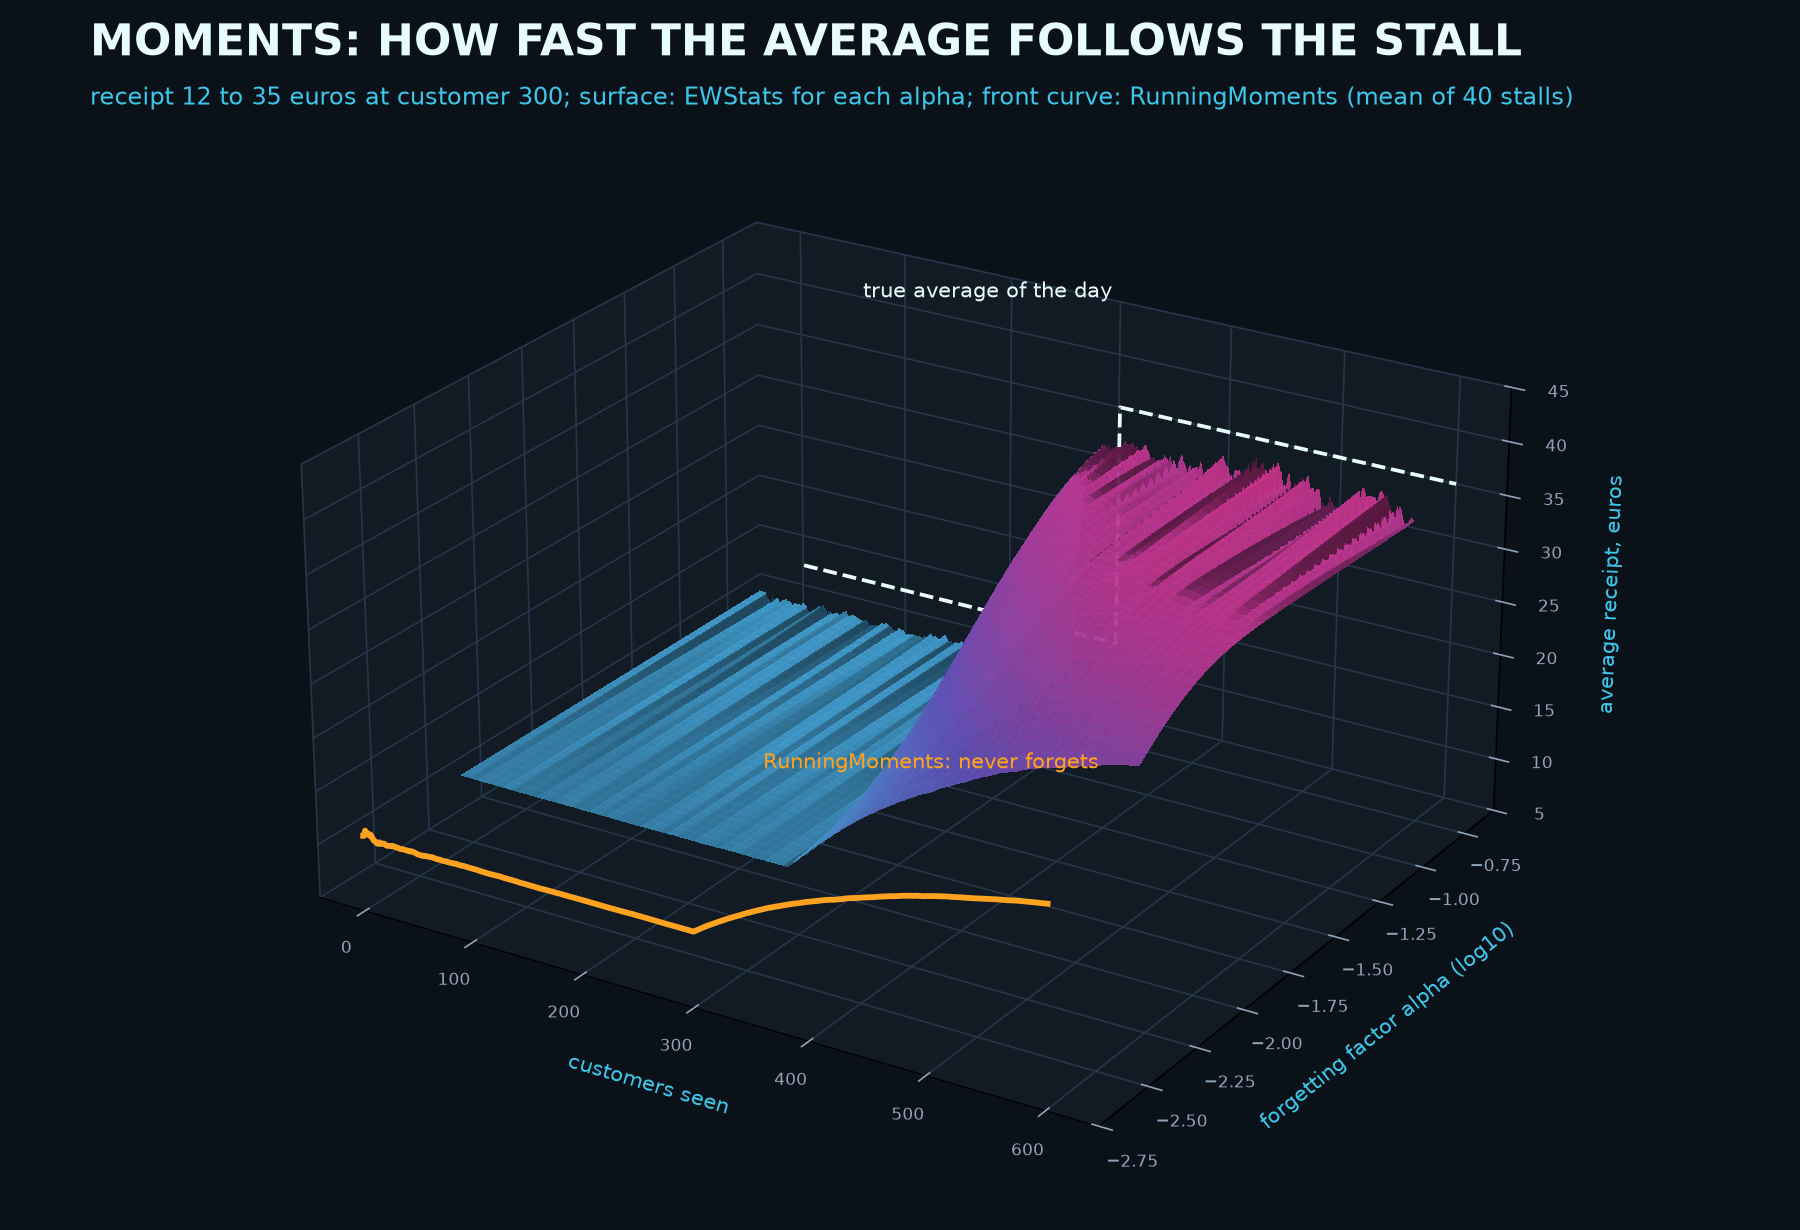
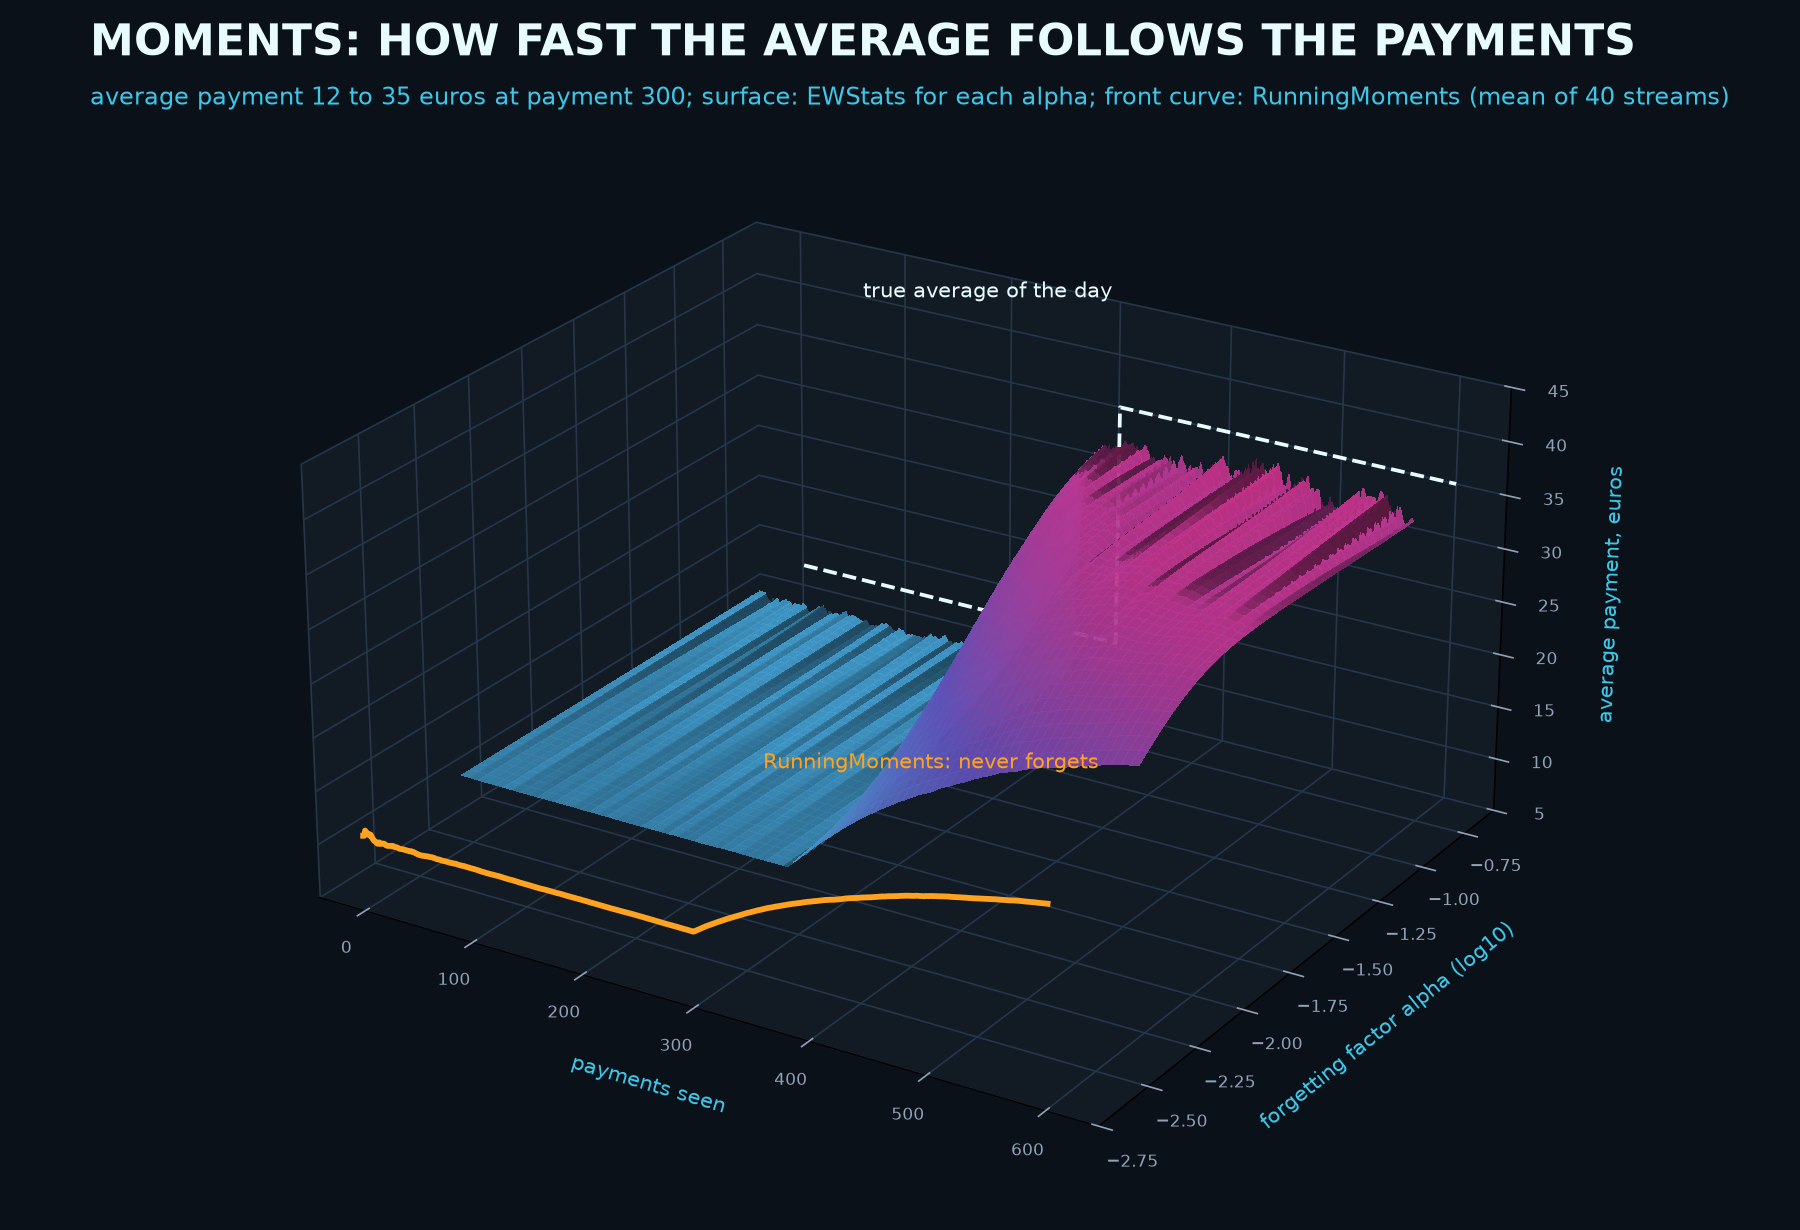
docs(moments): the original introduction, a finance example and a finance figure
The Gamestory stays in its own section. The introduction is the original one again, the first example is about card payments (the same run: count 500, mean 11.55, std 5.65, min 1.29, max 36.15, n_missing 3) and the 3D figure shows the average of a stream of payments that jumps from 12 to 35 euros, instead of the stall of the story.

Changed region(s): [[0.0622, 0.0, 0.9644, 0.0927], [0.8711, 0.4016, 0.9022, 0.587], [0.3111, 0.865, 0.4044, 0.8959]]

diff --git a/docs/assets/moments/make_moments_3d.py b/docs/assets/moments/make_moments_3d.py
@@ -1,7 +1,7 @@
 """Dark 3D figure for the Moments page, drawn with the library itself.
 
-A stall sells toys all morning at an average receipt of 12 euros; at customer 300 a series of rare cards comes
-out and the average receipt becomes 35. Each curve is the mean of 40 simulated stalls. The surface is the mean that ``EWStats`` reports after every customer,
+A card terminal sees payments with an average amount of 12 euros; at payment 300 the average amount becomes 35.
+Each curve is the mean of 40 simulated streams. The surface is the mean that ``EWStats`` reports after every payment,
 for 40 values of its forgetting factor alpha; the front curve is the mean of ``RunningMoments``, which never
 forgets, and the dashed back curve is the true average of the day.
 
@@ -81,9 +81,9 @@ def main():
     ax.set_zlim(5.0, 45.0)
     ax.view_init(elev=24, azim=-58)
     ax.set_box_aspect((1.35, 1.2, 0.7), zoom=1.1)
-    ax.set_xlabel("customers seen", color=CYAN, labelpad=8)
+    ax.set_xlabel("payments seen", color=CYAN, labelpad=8)
     ax.set_ylabel("forgetting factor alpha (log10)", color=CYAN, labelpad=8)
-    ax.set_zlabel("average receipt, euros", color=CYAN, labelpad=6)
+    ax.set_zlabel("average payment, euros", color=CYAN, labelpad=6)
     ax.tick_params(colors=MUTED, labelsize=8)
     ax.text(
         N * 0.62,
@@ -97,7 +97,7 @@ def main():
     fig.text(
         0.05,
         0.955,
-        "MOMENTS: HOW FAST THE AVERAGE FOLLOWS THE STALL",
+        "MOMENTS: HOW FAST THE AVERAGE FOLLOWS THE PAYMENTS",
         fontsize=21,
         fontweight="bold",
         color=INK,
@@ -105,7 +105,7 @@ def main():
     fig.text(
         0.05,
         0.915,
-        "receipt 12 to 35 euros at customer 300; surface: EWStats for each alpha; front curve: RunningMoments (mean of 40 stalls)",
+        "average payment 12 to 35 euros at payment 300; surface: EWStats for each alpha; front curve: RunningMoments (mean of 40 streams)",
         fontsize=11.5,
         color=CYAN,
     )
@@ -113,14 +113,14 @@ def main():
     plt.close(fig)
     i350, i600 = 349, N - 1
     print(
-        "RunningMoments mean at customer 350 and 600:",
+        "RunningMoments mean at payment 350 and 600:",
         round(run[i350], 1),
         round(run[i600], 1),
     )
     for a in (0.005, 0.05, 0.15):
         k = int(np.argmin(np.abs(alphas - a)))
         print(
-            f"EWStats alpha {alphas[k]:.3f} mean at customer 350 and 600:",
+            f"EWStats alpha {alphas[k]:.3f} mean at payment 350 and 600:",
             round(Z[k, i350], 1),
             round(Z[k, i600], 1),
         )

diff --git a/docs/stats/moments.md b/docs/stats/moments.md
@@ -2,9 +2,9 @@
 
 These tools keep the average, the wobble and a few other summary numbers of a signal, updated with every new reading, without storing the readings.
 
-![A three-dimensional surface: customers seen on one axis, the forgetting factor alpha on another and the average receipt in euros on the vertical axis. The true average jumps from 12 to 35 euros at customer 300; the surface rises after customer 300, faster for a larger alpha, and the front curve of RunningMoments stays far below, at 23.4 euros at customer 600.](../assets/moments/moments_3d.png)
+![A three-dimensional surface: payments seen on one axis, the forgetting factor alpha on another and the average payment in euros on the vertical axis. The true average jumps from 12 to 35 euros at payment 300; the surface rises after payment 300, faster for a larger alpha, and the front curve of RunningMoments stays far below, at 23.4 euros at payment 600.](../assets/moments/moments_3d.png)
 
-The picture is a stall simulated 40 times, the average of the 40 shown. The average receipt is 12 euros until customer 300 and 35 euros after it, and the surface is the mean that `EWStats` reports after each customer, for each forgetting factor `alpha`. At customer 350 `RunningMoments` (the front curve) says 15.2 euros and at customer 600 it says 23.4, still far from 35, because it averages the whole morning with the afternoon. `EWStats` with `alpha` = 0.052 says 33.2 at customer 350 and 34.6 at customer 600; with `alpha` = 0.005 it says 17.1 and 29.8.
+The picture is a stream of card payments simulated 40 times, the average of the 40 shown. The average payment is 12 euros until payment 300 and 35 euros after it, and the surface is the mean that `EWStats` reports after each payment, for each forgetting factor `alpha`. At payment 350 `RunningMoments` (the front curve) says 15.2 euros and at payment 600 it says 23.4, still far from 35, because it averages the whole past with the new regime. `EWStats` with `alpha` = 0.052 says 33.2 at payment 350 and 34.6 at payment 600; with `alpha` = 0.005 it says 17.1 and 29.8.
 
 ## Gamestory
 
@@ -22,9 +22,9 @@ Keeping thousands of paper receipts would be a disaster: they would blow away in
 
 In the end, what are Moments (RunningMoments, RunningMomentsVector, and EWStats)? They are super-light tools that calculate and update in real time the summary numbers of a data stream (average, variation, minimum, and maximum) one purchase at a time in fixed memory, without ever having to keep the whole pile of past receipts!
 
-## A first example: the receipts of a stall
+## A first example: the payments of a card terminal
 
-A stall sells toys all day. Each customer pays one receipt, and the assistant wants the number of receipts, the average, the spread and the smallest and the largest, without keeping the receipts. Five hundred receipts around 12 euros, then three customers who only ask a question and give no amount (`NaN`):
+A payment processor sees card payments one at a time and wants the number of payments, the average, the spread and the smallest and the largest, without storing them. Five hundred payments around 12 euros, then three authorisation requests that were declined and carry no amount (`NaN`):
 
 ```python
 import numpy as np
@@ -43,13 +43,15 @@ print(m.count, round(m.mean, 2), round(m.std, 2), round(m.min, 2), round(m.max, 
 500 11.55 5.65 1.29 36.15 3
 ```
 
-The three customers without an amount are not counted: `count` is 500 and `n_missing` is 3, and they do not change the average. The average receipt is 11.55 euros, the standard deviation 5.65, the smallest receipt 1.29 and the largest 36.15, all from a handful of numbers that were updated one receipt at a time.
+The three declined requests are not counted: `count` is 500 and `n_missing` is 3, and they do not change the average. The average payment is 11.55 euros, the standard deviation 5.65, the smallest payment 1.29 and the largest 36.15, all from a handful of numbers that were updated one payment at a time.
 
 ## What this is
 
-Imagine you are watching the receipts of a stall. You want to know the average receipt, how much the receipts vary, and whether they lean
-towards small or large purchases. You do not want to keep every receipt: the stall runs all day, every day. You want a handful of numbers that
-summarise what has been seen *so far* and update with each new receipt.
+Imagine you are watching a single joint of a robot move. You want to
+know its average angle, how much it wobbles, and whether the wobble is
+symmetric or one-sided. You do not want to keep every reading — the
+robot runs for days. You want a handful of numbers that summarize what
+has been seen *so far* and update with each new reading.
 
 That handful of numbers is what statisticians call the **moments** of a
 distribution: the mean, the variance, the skewness, the kurtosis, plus
@@ -436,4 +438,4 @@ and plots the running mean, the running standard deviation and the
 exponentially weighted mean against the raw trace. The vertical dotted
 line marks the shift.
 
-The image `docs/assets/moments/moments_3d.png` is generated by `docs/assets/moments/make_moments_3d.py`. The script simulates a stall of 600 customers 40 times, with receipts drawn from a gamma distribution whose mean is 12 euros before customer 300 and 35 euros after it, feeds each stream into `RunningMoments` and into `EWStats` for 36 values of `alpha` between 0.005 and 0.15, and draws the mean of the 40 means.
+The image `docs/assets/moments/moments_3d.png` is generated by `docs/assets/moments/make_moments_3d.py`. The script simulates a stream of 600 payments 40 times, with amounts drawn from a gamma distribution whose mean is 12 euros before payment 300 and 35 euros after it, feeds each stream into `RunningMoments` and into `EWStats` for 36 values of `alpha` between 0.005 and 0.15, and draws the mean of the 40 means.
